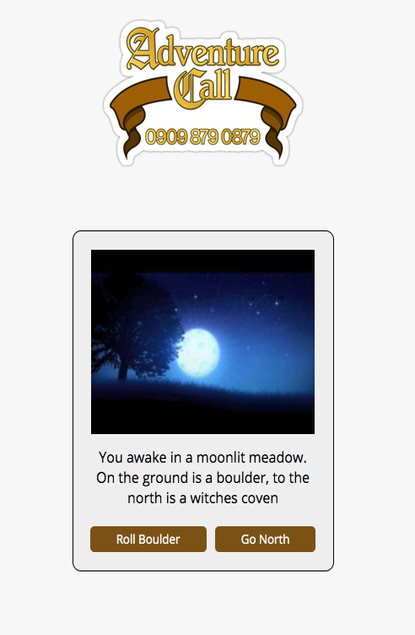
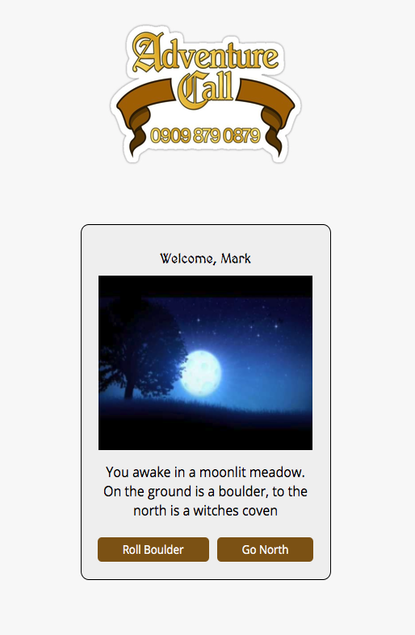
testing.md: more screenshots and user story testing info added

Changed region(s): [[0.1735, 0.3291, 0.8096, 0.9276], [0.2602, 0.0299, 0.7518, 0.2693]]

diff --git a/README.md b/README.md
@@ -178,81 +178,3 @@ Thanks to the following people for making the project happen:
 - The [Code Institute](https://codeinstitute.net/) Slack Community.
 - The [Code Institute](https://codeinstitute.net/) tutors and instructional material.  Tutor Stephen for his pep talk. Tutor Miklos for his perserverance.  Tutor Xavier for his excellent resources.
 - My Wife Joanna Johnston for her (constructive) criticism and understanding when I lock myself away in the attic for hours on end
-
-# Testing
-
-### On all Listed Devices the following tests were performed:
-
-Initial testing was completed on a Macbook Pro running Chrome Browser
-
-### User Stories tests
-
-- As a user/player of the game I want to have a fun experience with some pay off at the end.
-
-This game has been tested on various users including friends and family members.  Most around 30-35 age group.
-The users were familiar with the sketch show that the game is based on except for my wife but she enjoyed the
-fantasy aspect of the game.  Users felt that there could have been more references to the show and there was
-a suggestion that there could have been more interaction between the player and the guide character Falconhoof.
-Overall the testers thought that the main objective of the first user story was met as the game was enjoyable to workout
-and the little fireworks gif at the end provided a nice bookend to the experience.
-
-After the intial tests I found that it was a bit more intuative to hit enter to start the initial game after typing in your name so
-this funtionality was added into the game to improve user experience.
-
-Below are some gameplay screenshots including the final fireworks sequence.
-
-![Death_Screen](readme/moonlit-meadowSS.png)  ![Death_Screen](readme/deathSS.png)
-
-The following devices were emulated on Google Chrome developer tools running the site with no issues:
-
-
-The Website was tested on the [Troy](http://troy.labs.daum.net/) site using the tests below with no issues.
-
-Devices emulated are as follows:
-
-
-### Google Lighthouse testing documentation for desktop and mobile for all pages can be found in PDF form [here](!)
-
-
-
-### W3C HTML and CSS validators – to test for any Errors in the code
-
-### Screenshots of final w3c passes
-
-- Homepage
-
-![homepage_w3c_html_validator_screenshot](!)
-
-- Dates page
-
-![dates_w3c_html_validator_screenshot](!)
-
-- Audio Page
-
-![audio_w3c_html_validator_screenshot](!)
-
-- Contact Page
-
-![contact_w3c_html_validator_screenshot](!)
-
-- CSS information
-
-![css_w3c_html_validator_screenshot](!)
-
-### Debugging information
-
-
-|   Bug	|  Fix	|
-|-------|-------|
-| Question not showing when using show question function in gameScript.js|  Variable declared incorrectly when checked on devtools so corrected.
-| Next question not showing when option chosen | Checked syntax in dev tools and debugged syntax.  Some of the variables were not declared correctly.
-| Name not showing in question when entered into textbox | Tried to declare playerName as a global variable but there was an issue with scope.  Used jquery 
-| |to write a function within function and used variable locally within that function to add name to another 
-| |element welcoming the player by name.
-| Restart game message didn't appear when eastern passageway was chosen in question 2 | added noitems option for what character has
-| Further issues with items still showing when game is restarted which brough up incorrect options | items variable reset in picked answer function if player goes back to the start
-| Unclosed tag for div created issues with w3c validator. | Closed div tag
-| Restart message appeared on question 5 even when player has correct item | removed add states except for those required.  Added extra steps so that next step gave restart option.
-| Previous States showing when new game starts. | Console logged 'items' in pickedAnswer function to find scope and reset items to {} when player has to go back to the first question.
-| Name check function form welcome screen wasn't working. | Re-wrote function.  suspect syntax error initally.
-| When enter key is pressed on welcome screen the game doesn't move to the next screen | Added event lister for enter to run the function to move the game on to the next stage when enter is ----------

diff --git a/testing/testing.md b/testing/testing.md
@@ -15,12 +15,19 @@ a suggestion that there could have been more interaction between the player and 
 Overall the testers thought that the main objective of the first user story was met as the game was enjoyable to workout
 and the little fireworks gif at the end provided a nice bookend to the experience.
 
-After the intial tests I found that it was a bit more intuative to hit enter to start the initial game after typing in your name so
+After the intial tests I found that it was a bit more intuitive to hit enter to start the initial game after typing in your name so
 this funtionality was added into the game to improve user experience.
 
 Below are some gameplay screenshots including the final fireworks sequence.
 
-![homepage_w3c_html_validator_screenshot](assets/readme.deathSS.png)
+![Wizard_Screen](readme/wizardSS.png)    ![Fireworks_Screen](readme/fireworksSS.png)
+
+- As a user/player of the game I want some kind of personalisation of my experience so that I can feel more connected to what is going on.
+
+The option of entering the player's name has been used to personalise the user experience so that the game can speak directly to the 
+user.  This can be seen in the fireworks screenshot above and also the intial welcome screens of the game below.
+
+![Welcome_Screen](readme/falconhoof-welcomeSS.png) ![First_Question_Screen](readme/moonlit-meadowSS.png)
 
 The following devices were emulated on Google Chrome developer tools running the site with no issues:
 
